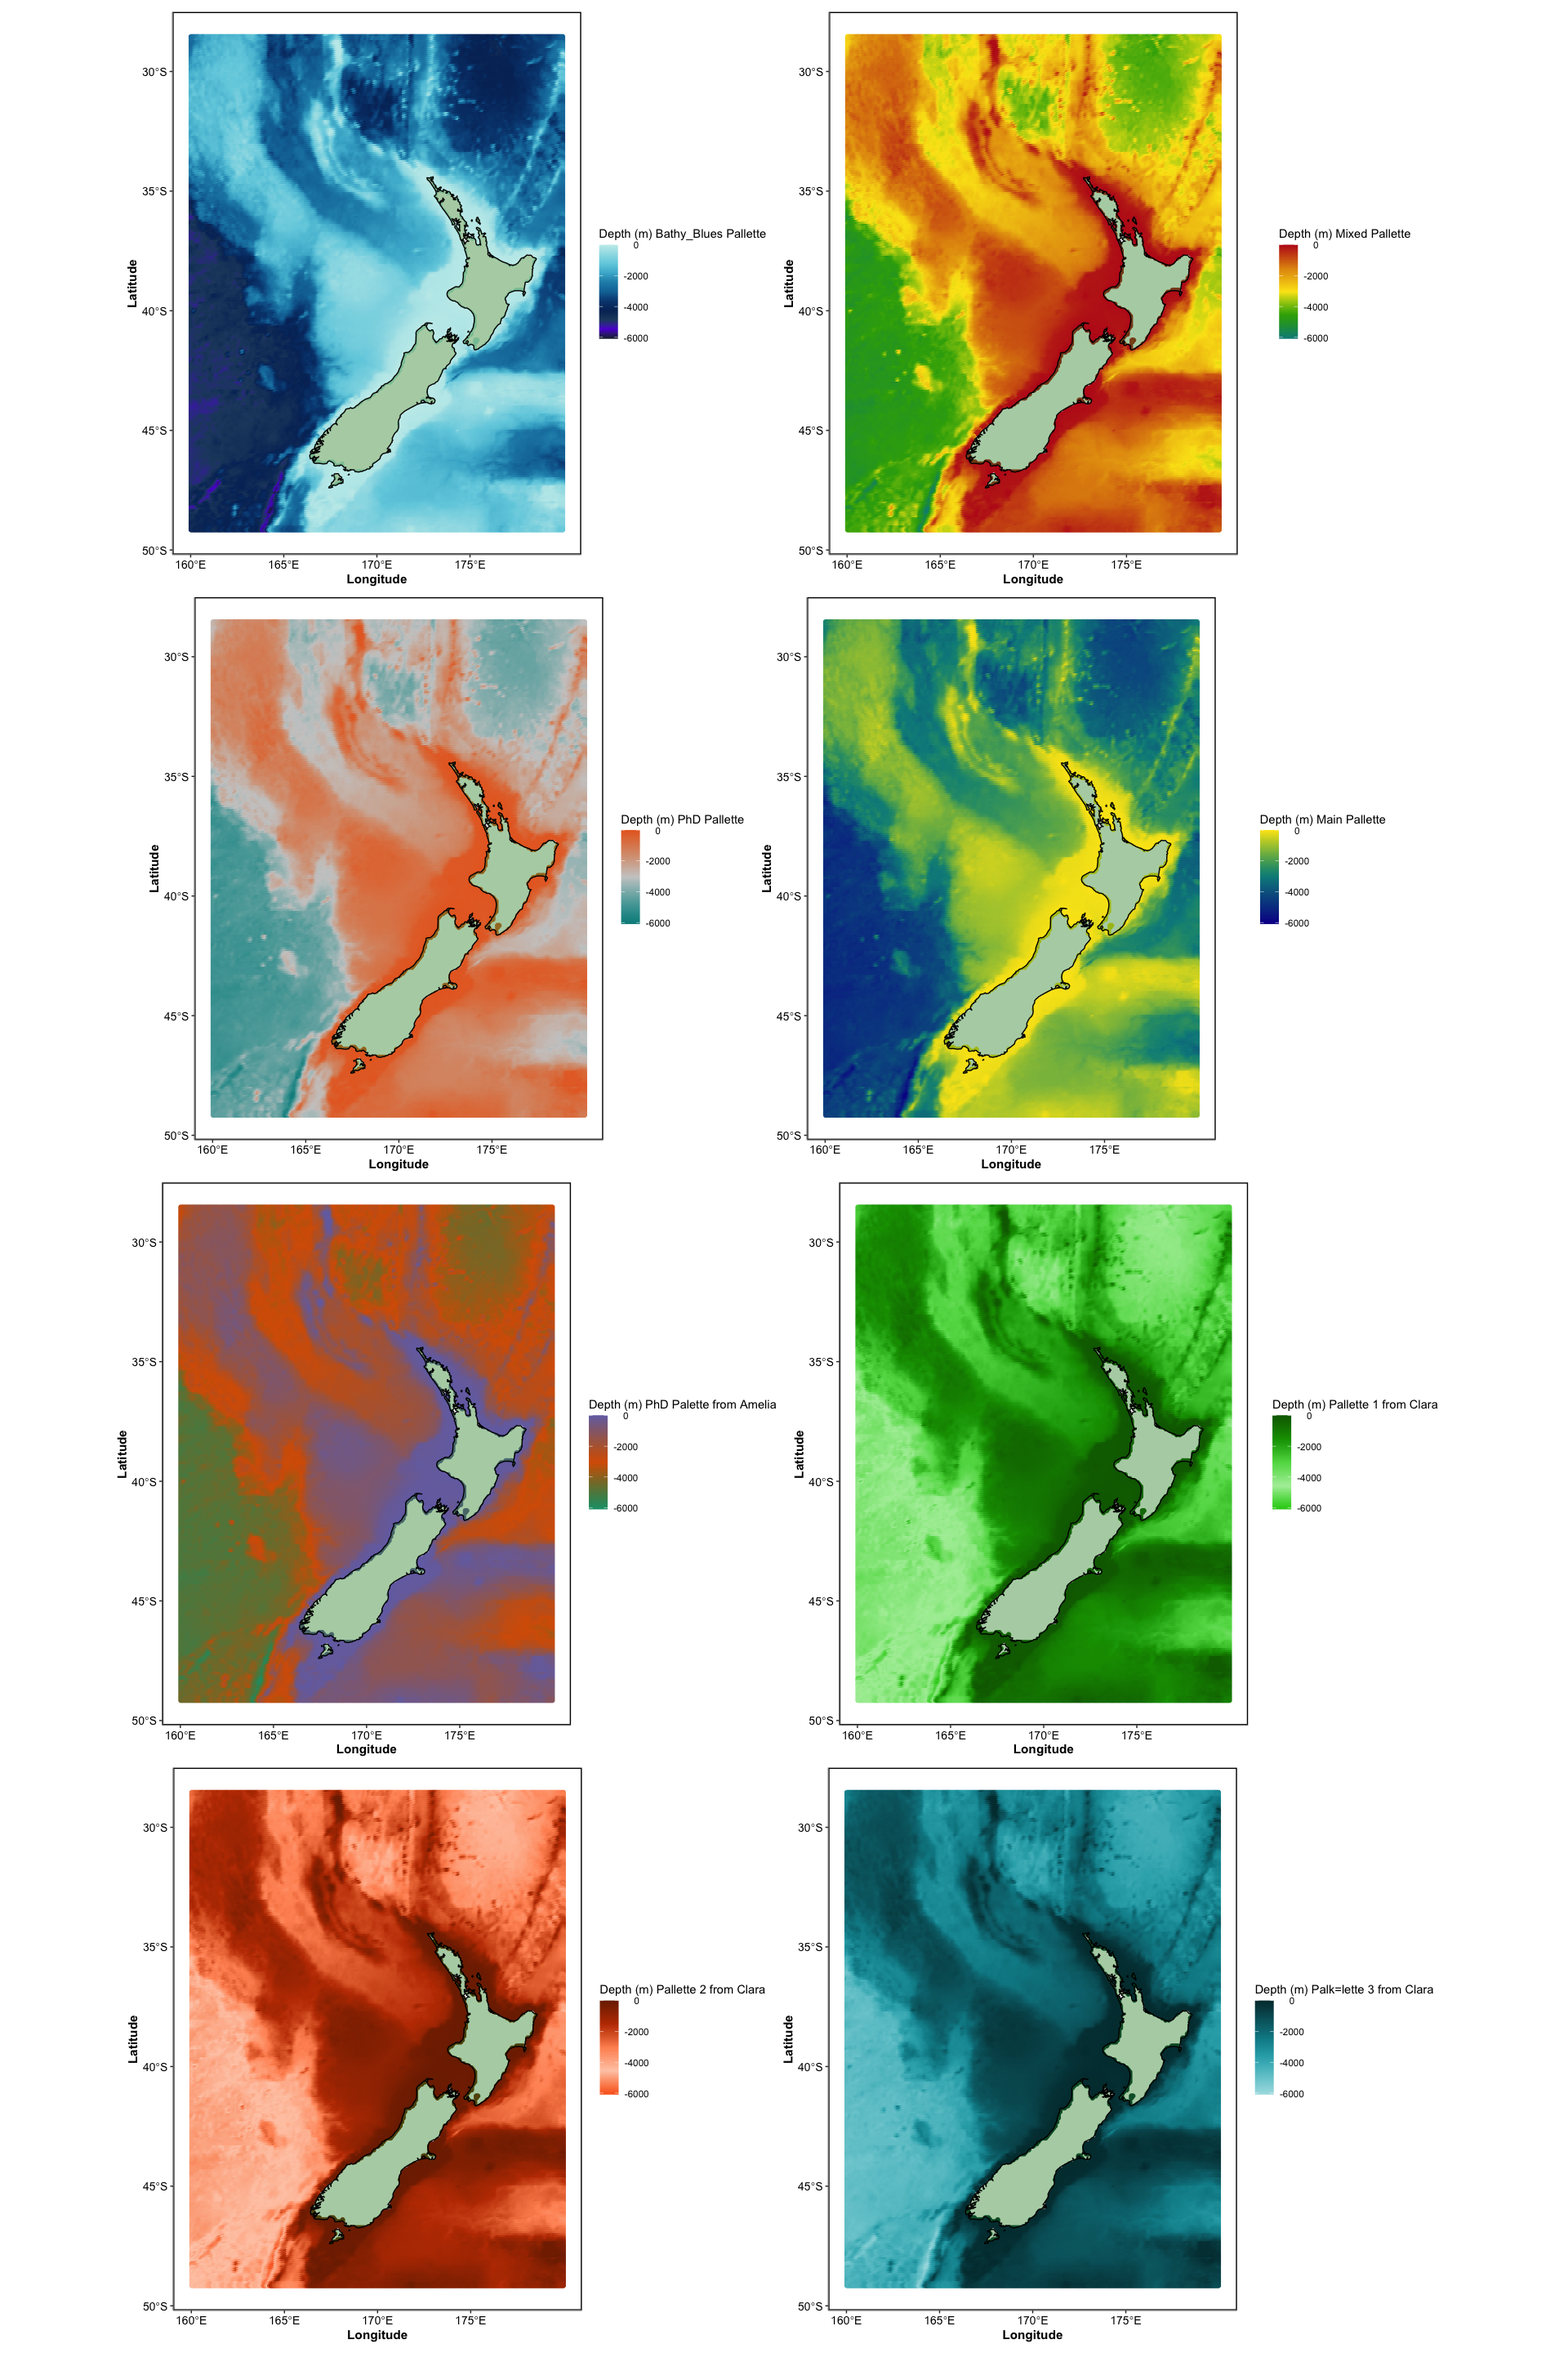
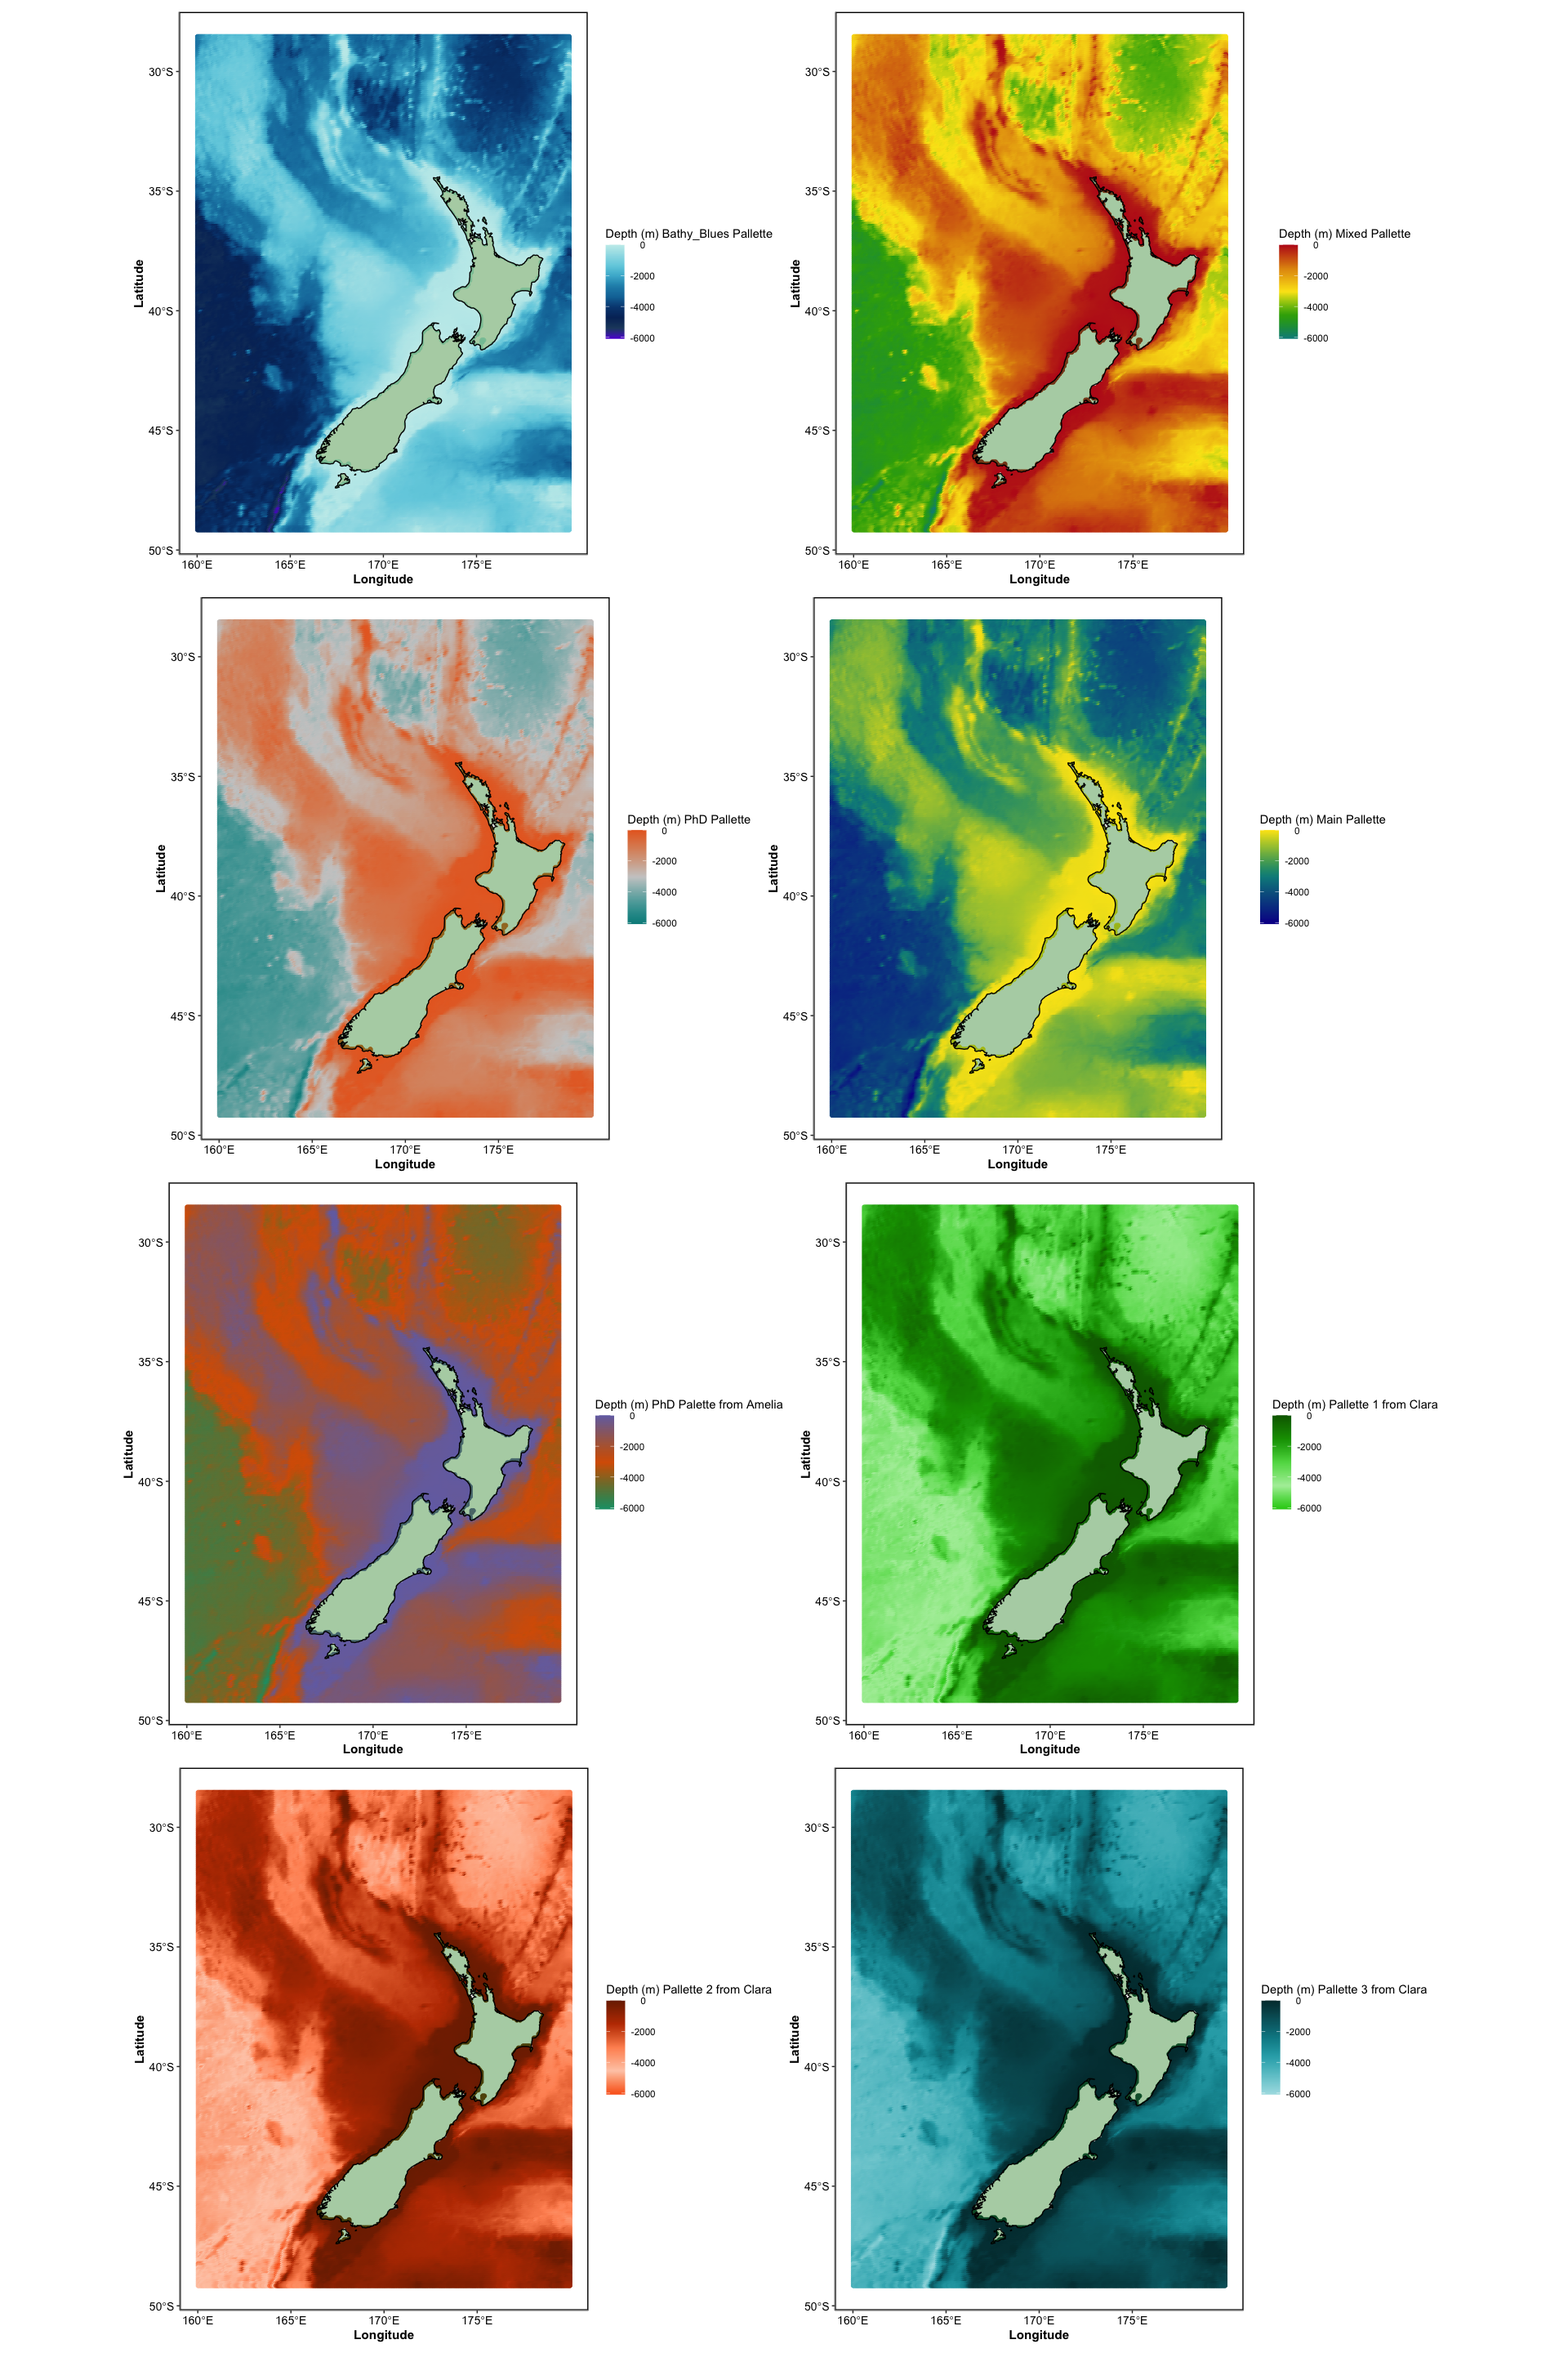
updated colours and rmd

Changed region(s): [[0.0625, 0.0, 0.4375, 1.0], [0.4688, 0.0, 0.8438, 1.0], [0.6562, 0.9688, 0.6875, 1.0]]

diff --git a/README.md b/README.md
@@ -361,7 +361,7 @@ map8<-ggplot()+
   geom_sf(data=sf_bathy,mapping=aes(colour=layer))+
   geom_polygon(data = nz, aes(x = long, y = lat, group = group),
                fill = "forestgreen", colour = "black",alpha=0.4)+
-  MBERCr::scale_colour_Clara(name="Depth (m) Palk=lette 3 from Clara",
+  MBERCr::scale_colour_Clara(name="Depth (m) Pallette 3 from Clara",
                              'Pal_3',discrete=FALSE)+
   MBERCr::theme_Bede()+
   labs(x="Longitude",
